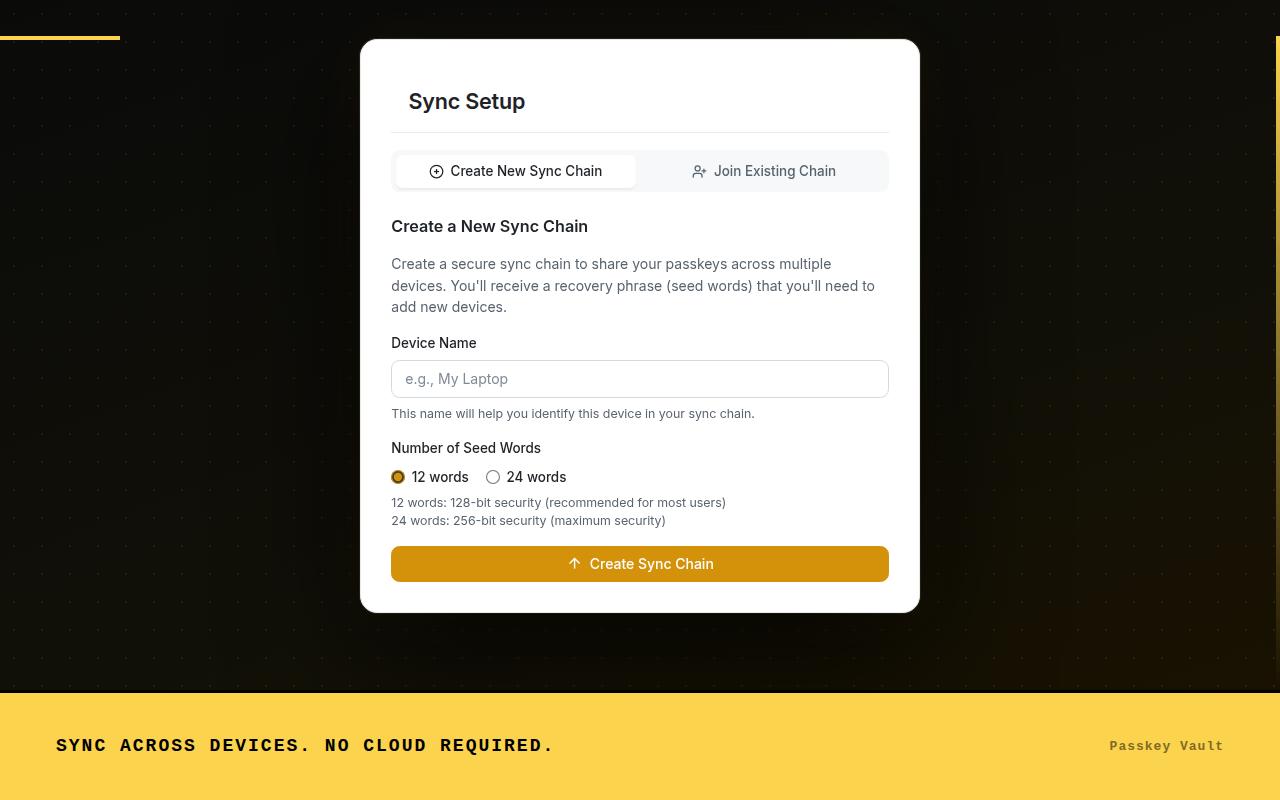
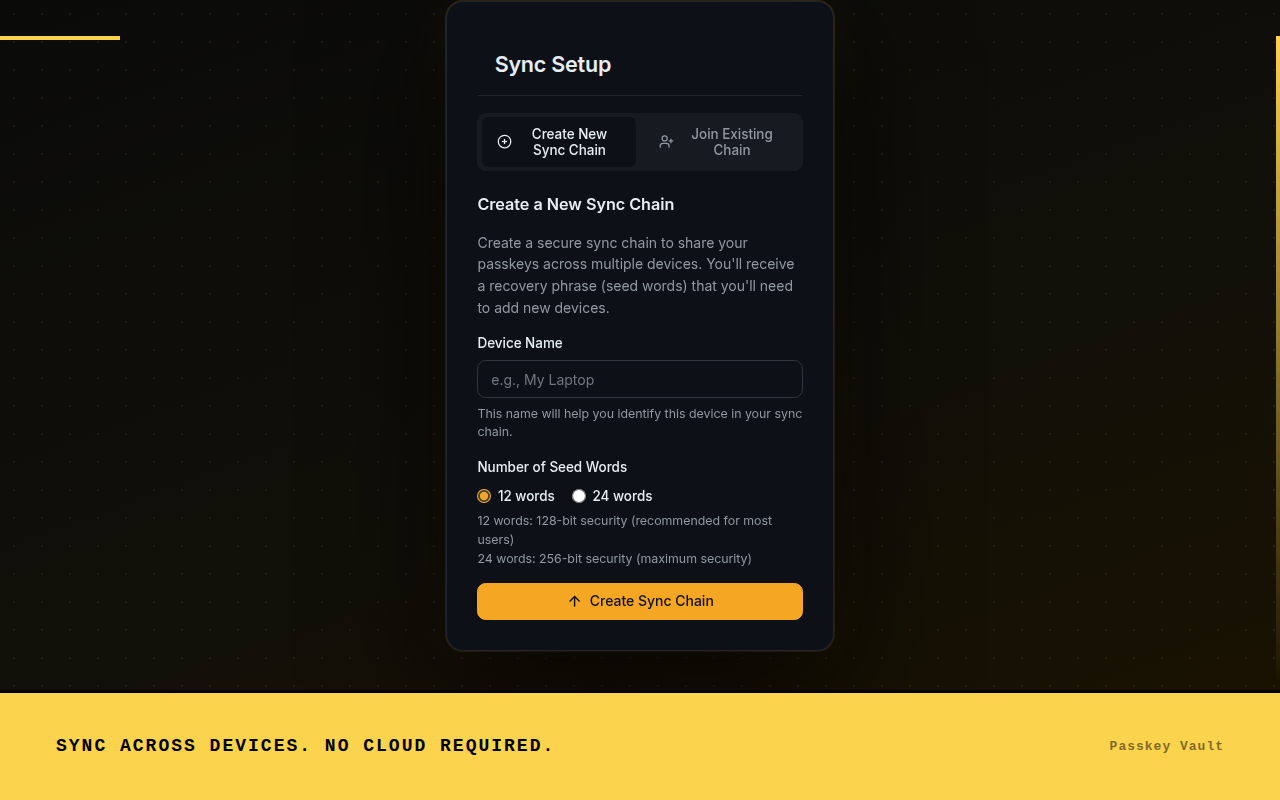
docs: dark, native-ratio screenshots
The README images were stretching the 360px popup across a 1280px
marketing canvas (wrong aspect, light theme). Replace them with clean
dark-theme captures at the popup's real ratio: vault, 2FA detail,
add-code dialog, lock screen, and search.

- capture-assets: new captureReadme() produces native-ratio element
  screenshots; CWS shots are now dark and no longer stretch the popup
  (constrained to 360px); dropped the redundant light/dark duplicates.
- Removed the old stretched README images.

diff --git a/scripts/capture-assets.js b/scripts/capture-assets.js
@@ -342,6 +342,89 @@ async function captureScreenshots() {
   console.log(`\n  Saved to ${SCREENSHOTS_DIR}`);
 }
 
+// ─── README screenshots ──────────────────────────────────────────────────────
+// Clean, dark-theme, native-ratio captures of the actual UI — no marketing
+// canvas, no stretching. These are the images shown in README.md.
+
+async function captureReadme() {
+  console.log('\n🖼  Capturing README screenshots (dark, native ratio)...');
+  fs.mkdirSync(README_DIR, { recursive: true });
+
+  const ctx = await launchWithExtension({
+    profileDir: path.join(ROOT, '.playwright-profile-readme'),
+    contextOpts: { viewport: { width: 380, height: 640 } },
+  });
+  const id = await getExtensionId(ctx);
+
+  const shotSel = async (page, selector, name) => {
+    await page.locator(selector).first().screenshot({ path: path.join(README_DIR, name) });
+    console.log(`  ✅ ${name}`);
+  };
+
+  // Vault list, 2FA detail, and search — one page, dark
+  {
+    const p = await extPage(ctx, id, 'popup.html');
+    await setTheme(p, 'dark');
+    await injectPasskeys(p, MOCK_PASSKEYS);
+    await injectTotp(p, MOCK_TOTP);
+    await p.reload();
+    await waitReady(p);
+    await shotSel(p, '.container', 'vault.png');
+
+    const totpExpand = p.locator('.totp-item .expand-btn').first();
+    if (await totpExpand.count()) {
+      await totpExpand.click();
+      await p.waitForTimeout(300);
+    }
+    await shotSel(p, '.container', 'totp.png');
+    if (await totpExpand.count()) {
+      await totpExpand.click();
+      await p.waitForTimeout(150);
+    }
+
+    await p.fill('#search-input', 'git');
+    await p.waitForTimeout(300);
+    await shotSel(p, '.container', 'search.png');
+    await p.close();
+  }
+
+  // Add Code dialog — otpauth:// / QR-image import
+  {
+    const p = await extPage(ctx, id, 'popup.html');
+    await setTheme(p, 'dark');
+    await injectPasskeys(p, MOCK_PASSKEYS);
+    await injectTotp(p, MOCK_TOTP);
+    await p.reload();
+    await waitReady(p);
+    await p.click('#add-totp-btn');
+    await p.waitForTimeout(300);
+    await shotSel(p, '.modal-content:has(#totp-uri-input)', 'add-code.png');
+    await p.close();
+  }
+
+  // Lock screen — set a PIN, then lock (done last; it locks the shared profile)
+  {
+    const p = await extPage(ctx, id, 'popup.html');
+    await setTheme(p, 'dark');
+    await injectPasskeys(p, MOCK_PASSKEYS);
+    await injectTotp(p, MOCK_TOTP);
+    await p.evaluate(async () => {
+      await chrome.runtime.sendMessage({
+        type: 'SETUP_MASTER_PASSWORD',
+        payload: { password: '1234' },
+      });
+      await chrome.runtime.sendMessage({ type: 'LOCK_SECURE_STORAGE' });
+    });
+    await p.reload();
+    await waitReady(p);
+    await shotSel(p, '#lock-screen', 'lock.png');
+    await p.close();
+  }
+
+  await ctx.close();
+  console.log(`  Saved to ${README_DIR}`);
+}
+
 // ─── Video ───────────────────────────────────────────────────────────────────
 
 async function captureVideo() {
@@ -451,8 +534,7 @@ async function captureCWS() {
     'cws-04-import.png': 'BRING YOUR PASSKEYS WITH YOU.',
     'cws-04-settings.png': 'DEVELOPER TOOLS BUILT RIGHT IN.',
     'cws-05-sync.png': 'SYNC ACROSS DEVICES. NO CLOUD REQUIRED.',
-    'cws-06-vault-dark.png': 'DARK MODE FOR LOW-LIGHT WORKFLOWS.',
-    'cws-07-settings-dark.png': 'INTERCEPTION CONTROLS, DAY OR NIGHT.',
+    'cws-07-settings-dark.png': 'FINE-GRAINED INTERCEPTION CONTROLS.',
     'cws-08-totp.png': 'BUILT-IN 2FA CODES, GENERATED LOCALLY.',
   };
 
@@ -510,6 +592,12 @@ async function captureCWS() {
           width: 120px !important; height: 4px !important;
           background: #fcd34d !important;
           z-index: 2 !important;
+        }
+        /* Keep the popup at its real 360px width — never stretch to the canvas */
+        .container {
+          width: 360px !important;
+          max-width: 360px !important;
+          flex: 0 0 auto !important;
         }
         .container,
         .sync-setup,
@@ -574,7 +662,7 @@ async function captureCWS() {
   // 1 — vault with passkeys
   {
     const p = await extPage(ctx, id, 'popup.html');
-    await setTheme(p, 'light');
+    await setTheme(p, 'dark');
     await p.reload();
     await waitReady(p);
     await cwsShot(p, 'cws-01-vault.png');
@@ -583,7 +671,7 @@ async function captureCWS() {
   // 2 — search
   {
     const p = await extPage(ctx, id, 'popup.html');
-    await setTheme(p, 'light');
+    await setTheme(p, 'dark');
     await p.reload();
     await waitReady(p);
     await p.fill('#search-input', 'github');
@@ -594,7 +682,7 @@ async function captureCWS() {
   // 3 — expanded passkey detail
   {
     const p = await extPage(ctx, id, 'popup.html');
-    await setTheme(p, 'light');
+    await setTheme(p, 'dark');
     await p.reload();
     await waitReady(p);
     const btn = p.locator('.passkey-item .expand-btn').first();
@@ -608,7 +696,7 @@ async function captureCWS() {
   // 3b — expanded 2FA code detail (highlights the built-in authenticator)
   {
     const p = await extPage(ctx, id, 'popup.html');
-    await setTheme(p, 'light');
+    await setTheme(p, 'dark');
     await p.reload();
     await waitReady(p);
     const btn = p.locator('.totp-item .expand-btn').first();
@@ -622,7 +710,7 @@ async function captureCWS() {
   // 4 — import
   {
     const p = await extPage(ctx, id, 'import.html');
-    await setTheme(p, 'light');
+    await setTheme(p, 'dark');
     await p.reload();
     await waitReady(p, 800);
     await cwsShot(p, 'cws-04-import.png');
@@ -631,7 +719,7 @@ async function captureCWS() {
   // 5 — settings / developer tools
   {
     const p = await extPage(ctx, id, 'options.html');
-    await setTheme(p, 'light');
+    await setTheme(p, 'dark');
     await p.reload();
     await waitReady(p, 800);
     // Click Developer tab
@@ -678,22 +766,13 @@ async function captureCWS() {
   // 6 — sync setup
   {
     const p = await extPage(ctx, id, 'sync-setup.html');
-    await setTheme(p, 'light');
+    await setTheme(p, 'dark');
     await p.reload();
     await waitReady(p, 800);
     await cwsShot(p, 'cws-05-sync.png');
   }
 
-  // 7 — dark mode vault
-  {
-    const p = await extPage(ctx, id, 'popup.html');
-    await setTheme(p, 'dark');
-    await p.reload();
-    await waitReady(p);
-    await cwsShot(p, 'cws-06-vault-dark.png');
-  }
-
-  // 8 — dark mode interception controls
+  // 8 — interception controls
   {
     const p = await extPage(ctx, id, 'options.html');
     await setTheme(p, 'dark');
@@ -737,25 +816,7 @@ async function captureCWS() {
   }
 
   await ctx.close();
-  copyReadmeScreenshots();
   console.log(`\n  Saved to ${CWS_DIR}`);
-}
-
-function copyReadmeScreenshots() {
-  fs.mkdirSync(README_DIR, { recursive: true });
-  for (const name of [
-    'cws-01-vault.png',
-    'cws-02-search.png',
-    'cws-03-detail.png',
-    'cws-08-totp.png',
-    'cws-04-settings.png',
-    'cws-05-sync.png',
-    'cws-06-vault-dark.png',
-    'cws-07-settings-dark.png',
-  ]) {
-    fs.copyFileSync(path.join(CWS_DIR, name), path.join(README_DIR, name));
-  }
-  console.log(`  ✅ README screenshots copied to ${README_DIR}`);
 }
 
 async function addOptionsCwsChrome(page) {
@@ -967,6 +1028,7 @@ async function main() {
   }
 
   if (MODE === 'all' || MODE === 'screenshots') await captureScreenshots();
+  if (MODE === 'all' || MODE === 'readme') await captureReadme();
   if (MODE === 'all' || MODE === 'video') await captureVideo();
   if (MODE === 'all' || MODE === 'cws') await captureCWS();
   if (MODE === 'all' || MODE === 'promo') await capturePromoTiles();

diff --git a/README.md b/README.md
@@ -8,21 +8,17 @@ A browser extension that intercepts WebAuthn API calls and stores passkeys local
 
 ## Screenshots
 
-<img src="docs/readme/cws-01-vault.png" alt="Passkeys and 2FA codes in one vault. On your device. Nobody else." width="640"/>
-
-<img src="docs/readme/cws-02-search.png" alt="Find any passkey or code instantly." width="640"/>
-
-<img src="docs/readme/cws-03-detail.png" alt="Full control over every credential." width="640"/>
-
-<img src="docs/readme/cws-08-totp.png" alt="Built-in 2FA codes, generated locally." width="640"/>
-
-<img src="docs/readme/cws-04-settings.png" alt="Developer tools built right in." width="640"/>
-
-<img src="docs/readme/cws-05-sync.png" alt="Sync across devices. No cloud required." width="640"/>
-
-<img src="docs/readme/cws-06-vault-dark.png" alt="Dark mode vault view." width="640"/>
-
-<img src="docs/readme/cws-07-settings-dark.png" alt="Dark mode interception controls." width="640"/>
+<p>
+  <img src="docs/readme/vault.png" alt="Passkeys and 2FA codes in one searchable vault" width="300"/>
+  <img src="docs/readme/totp.png" alt="Expandable details for every entry" width="300"/>
+</p>
+<p>
+  <img src="docs/readme/add-code.png" alt="Add a 2FA code by otpauth URI, pasted QR, or uploaded image" width="300"/>
+  <img src="docs/readme/lock.png" alt="Lock the vault behind a PIN" width="300"/>
+</p>
+<p>
+  <img src="docs/readme/search.png" alt="Search across passkeys and 2FA codes at once" width="300"/>
+</p>
 
 ---
 
